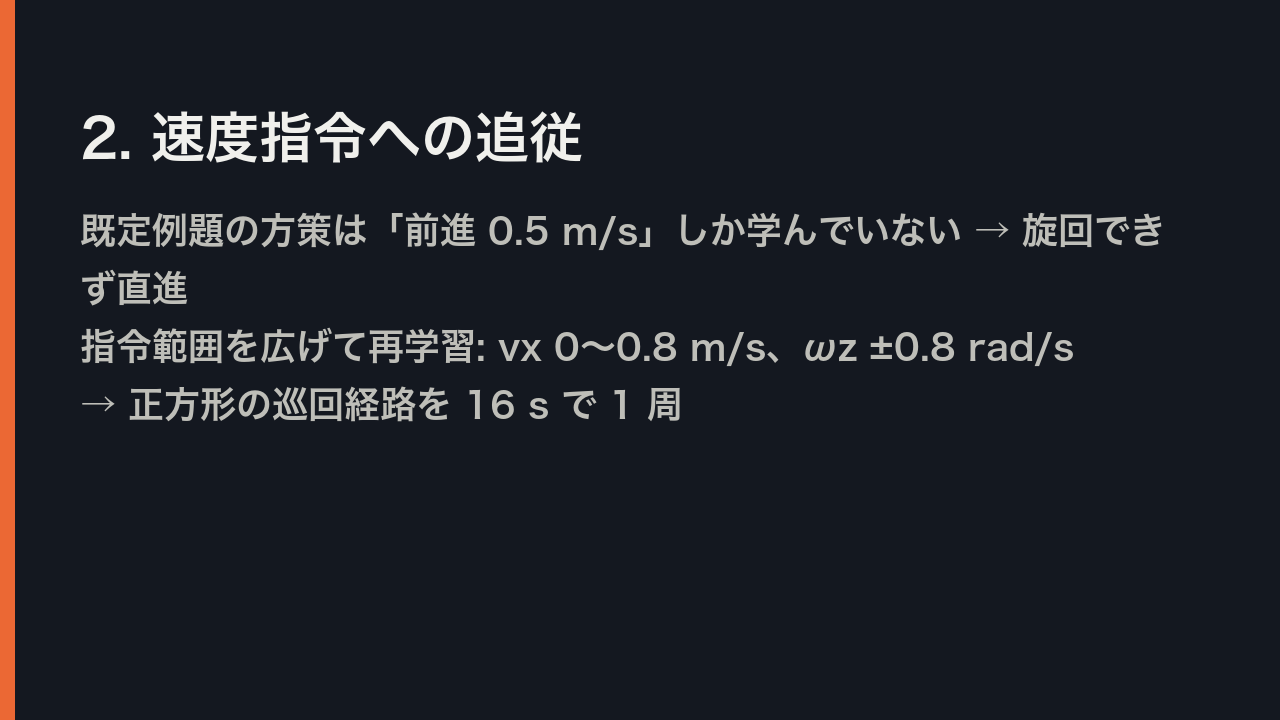
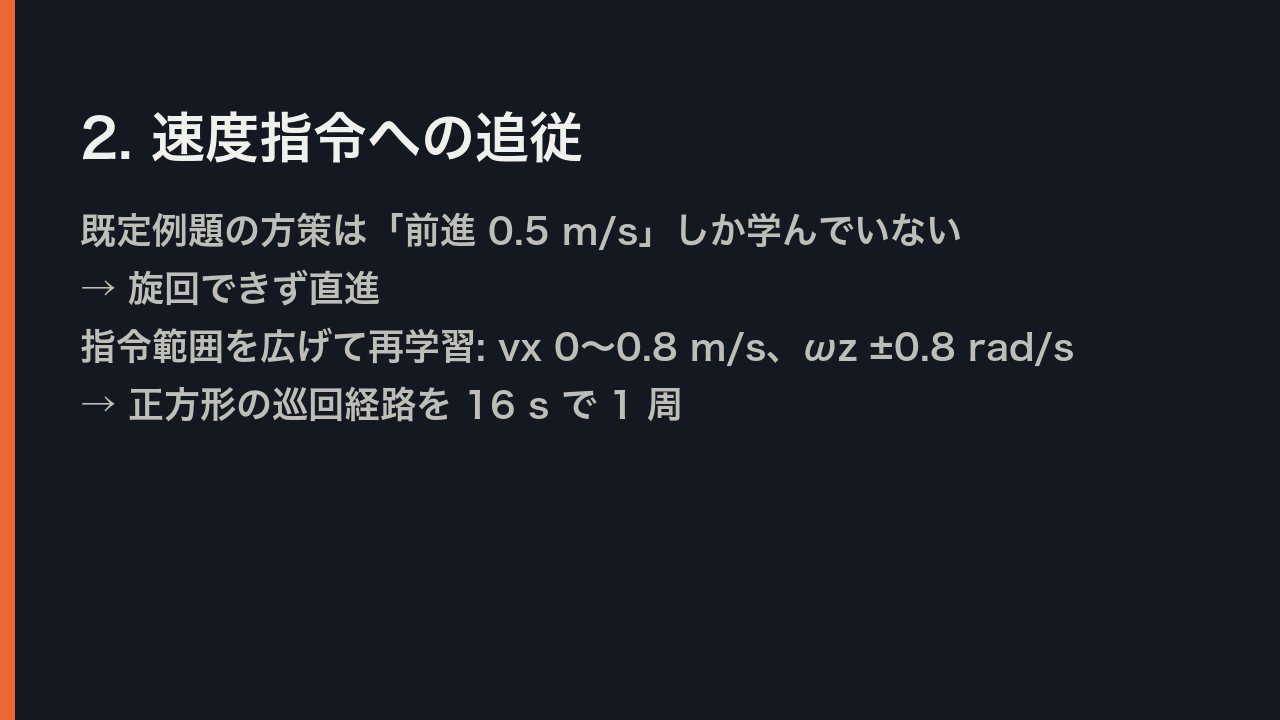
T17: explicit line breaks in C6 and other cards, regenerate final video

Changed region(s): [[0.0625, 0.3667, 0.3125, 0.4278], [0.7812, 0.275, 0.9062, 0.3667]]

diff --git a/scripts/make_cards.py b/scripts/make_cards.py
@@ -38,7 +38,7 @@ def card(name, title, lines=(), footer=None, title_size=54, line_size=36, accent
         y += 30
         for i, t in enumerate(lines):
             col = ACC if (accent_first and i == 0) else SUB
-            for tt in wrap(d, t, font(ls), width):
+            for tt in (x for seg in t.split("\n") for x in wrap(d, seg, font(ls), width)):
                 d.text((80, y), tt, font=font(ls), fill=col)
                 y += ls + 22
         if footer:
@@ -72,13 +72,13 @@ def half_card(name, title, lines=(), title_size=38, line_size=27, accent_first=F
     d = ImageDraw.Draw(im)
     d.rectangle([0, 0, 12, H], fill=ACC)
     y = 90
-    for t in wrap(d, title, font(title_size), HW - 40 - MARGIN):
+    for t in (x for seg in title.split("\n") for x in wrap(d, seg, font(title_size), HW - 40 - MARGIN)):
         d.text((40, y), t, font=font(title_size), fill=FG)
         y += title_size + 12
     y += 26
     for i, t in enumerate(lines):
         col = ACC if (accent_first and i == 0) else SUB
-        for tt in wrap(d, t, font(line_size), HW - 40 - MARGIN):
+        for tt in (x for seg in t.split("\n") for x in wrap(d, seg, font(line_size), HW - 40 - MARGIN)):
             d.text((40, y), tt, font=font(line_size), fill=col)
             y += line_size + 10
         y += 12
@@ -116,19 +116,19 @@ card("C1", "1. 歩行方策を強化学習で獲得",
      ["4096 体並列・300 イテレーション・約 9 分(M1 Max, Metal)", "PPO(rsl-rl)、報酬: 速度指令への追従 + 姿勢の安定",
       "最終: エピソード長 991 / 1000、lin_vel 追従 0.97"])
 card("C2", "2. 速度指令への追従",
-     ["既定例題の方策は「前進 0.5 m/s」しか学んでいない → 旋回できず直進", "指令範囲を広げて再学習: vx 0〜0.8 m/s、ωz ±0.8 rad/s",
+     ["既定例題の方策は「前進 0.5 m/s」しか学んでいない\n→ 旋回できず直進", "指令範囲を広げて再学習: vx 0〜0.8 m/s、ωz ±0.8 rad/s",
       "→ 正方形の巡回経路を 16 s で 1 周"])
 card("C3", "3. 疑似 LiDAR(72 本)で反応的に回避",
-     ["Genesis の Raycaster を胴体に取付(5° 刻み、5 m)。地面除去あり", "進路幅 ±0.4 m の回廊に入った障害物だけに反応し、減速・旋回",
+     ["Genesis の Raycaster を胴体に取付(5° 刻み、5 m)。\n地面除去あり", "進路幅 ±0.4 m の回廊に入った障害物だけに反応し、減速・旋回",
       "地図なし・障害物位置は未使用(実機の LiDAR 回避と同じ入力)"])
-card("C4", "4. 45 配置で定量評価(障害物 3〜5 個を乱数配置)",
+card("C4", "4. 45 配置で定量評価\n(障害物 3〜5 個を乱数配置)",
      ["回避なし 9% → v1 91% → v2 96% → v3 100%(成功率)", "接触 91% → 0%(p < 0.0001)",
       "既定方策(前進のみ)は全条件で成功 0%"], accent_first=True)
 card("C5", "5. 比較: 地図なし(v1・v2)と地図あり(v3)",
      ["v1 反応的回避: 正面の障害物で振動(成功 91%)", "v2 + コミット区間: 抜けるが遠回り(96%、経路効率 0.81)",
       "v3 地図による経路計画: 速さと確実さを両立", "(100%、所要 24.2 s、経路効率 1.05)"])
 card("C6", "まとめ",
-     ["実機 Go2 の 自己位置 → 地図・計画 → 速度指令 → 歩行 と同じ 3 層構造をシムで再現(2D → 3D LiDAR)",
+     ["実機 Go2 と同じ層構造をシミュレーションで再現", "自己位置 → 地図・計画 → 速度指令 → 歩行(2D → 3D LiDAR)",
       "限界: 真の姿勢を使用(SLAM なし)、静止障害物、非決定性", "コード: github.com/raycast-trail/go2-genesis-patrol"], line_size=33)
 card("C7", "6. 3D LiDAR: 2D では見えない障害物",
      ["低い箱(0.15 m)と テーブルの天板(0.32〜0.36 m)は", "センサ面(0.44 m)の 2D スキャンに映らない",
@@ -147,14 +147,14 @@ banner("B12d", "3D: 低い箱とテーブルを地図に入れて迂回、完走
 banner("B12f", "Foxglove: 3D 点群(高さで色分け)が低い箱・天板・円柱をなぞる(seed 103)", speed=True)
 
 # 左右 2 分割用(640×720)
-half_card("C1h", "1. 歩行方策を強化学習で獲得",
+half_card("C1h", "1. 歩行方策を\n強化学習で獲得",
           ["4096 体並列・300 イテレーション・約 9 分(M1 Max, Metal)", "PPO(rsl-rl)。報酬: 速度指令への追従 + 姿勢の安定",
-           "最終: エピソード長 991 / 1000、lin_vel 追従 0.97"])
+           "最終: エピソード長 991 / 1000、\nlin_vel 追従 0.97"])
 half_card("C2h", "2. 速度指令への追従",
-          ["既定例題の方策は「前進 0.5 m/s」しか学んでいない → 旋回できず直進(橙)", "指令範囲を広げて再学習: vx 0〜0.8 m/s、ωz ±0.8 rad/s",
+          ["既定例題の方策は「前進 0.5 m/s」しか学んでいない → 旋回できず直進(橙)", "指令範囲を広げて再学習:\nvx 0〜0.8 m/s、ωz ±0.8 rad/s",
            "→ 正方形の巡回経路を 16 s で 1 周(青)"])
 half_card("C4h", "4. 45 配置で定量評価",
           ["障害物 3〜5 個を乱数配置、60 s 上限", "成功率: 回避なし 9% → v1 91%", "→ v2 96% → v3 100%",
            "接触 91% → 0%(p < 0.0001)", "既定方策(前進のみ)は全条件で 0%"])
 half_card("C8h", "3D LiDAR の効果",
-          ["30 配置(低い箱 + テーブル + 高い障害物)", "成功 3% → 100%、接触 97% → 0%(p < 0.0001)", "追加コスト +1 ms/step"])
+          ["30 配置\n(低い箱 + テーブル + 高い障害物)", "成功 3% → 100%、接触 97% → 0%\n(p < 0.0001)", "追加コスト +1 ms/step"])

diff --git a/tasks/17_c6_fix.md b/tasks/17_c6_fix.md
@@ -1,0 +1,23 @@
+# T17: まとめカード C6 の折り返しを直して動画を再生成(YouTube アップロード前の最終版)
+
+## 目的
+カード C6 の 1 行目が「…と同じ 3 層構 / 造をシムで再現…」と単語の途中で自動折り返しされている。行を明示的に区切って直し、提出動画を作り直す。ほかのカード・ショットは変えない。この版を YouTube にアップロードする。
+
+## 手順
+1. `scripts/make_cards.py` の C6 を、自動折り返しに頼らず次の 4 行に明示的に分ける(数値・URL は変えない):
+   - 「実機 Go2 と同じ層構造をシミュレーションで再現」
+   - 「自己位置 → 地図・計画 → 速度指令 → 歩行(2D → 3D LiDAR)」
+   - 「限界: 真の姿勢を使用(SLAM なし)、静止障害物、非決定性」
+   - 「コード: github.com/raycast-trail/go2-genesis-patrol」
+2. **全カード・全バナーを目視で確認**し、ほかにも単語・数値・括弧の途中で折り返している行があれば、同じく明示的な改行で直す(文言は変えない)。直したカードを報告に列挙
+3. `python scripts/check_margins.py`(全 OK であること)
+4. `python scripts/make_video.py`(T16 と同じ引数)で `videos/final/PAI最終課題_3164.mp4` を上書き。長さが T16 と同じ(約 168.8 s)であること。`results/t10_contact.png` を更新
+5. 個人情報の検査(T16 手順 1-6 と同じ grep、ffprobe のメタデータ)
+6. コミットし、push の前だけ `gh auth switch -u raycast-trail`、push 後に元のアカウントへ戻す
+
+## 受け入れ条件
+- [ ] C6 が 4 行で、単語の途中で折り返していない(画像を報告に貼る)
+- [ ] 余白検査 OK、動画 60〜180 s、構成・長さは T16 と同じ
+- [ ] 個人情報の検査 0 件
+- [ ] push 済み、`gh` は元のアカウントに戻っている
+- [ ] `reports/17_c6_fix.md`(日本語)
